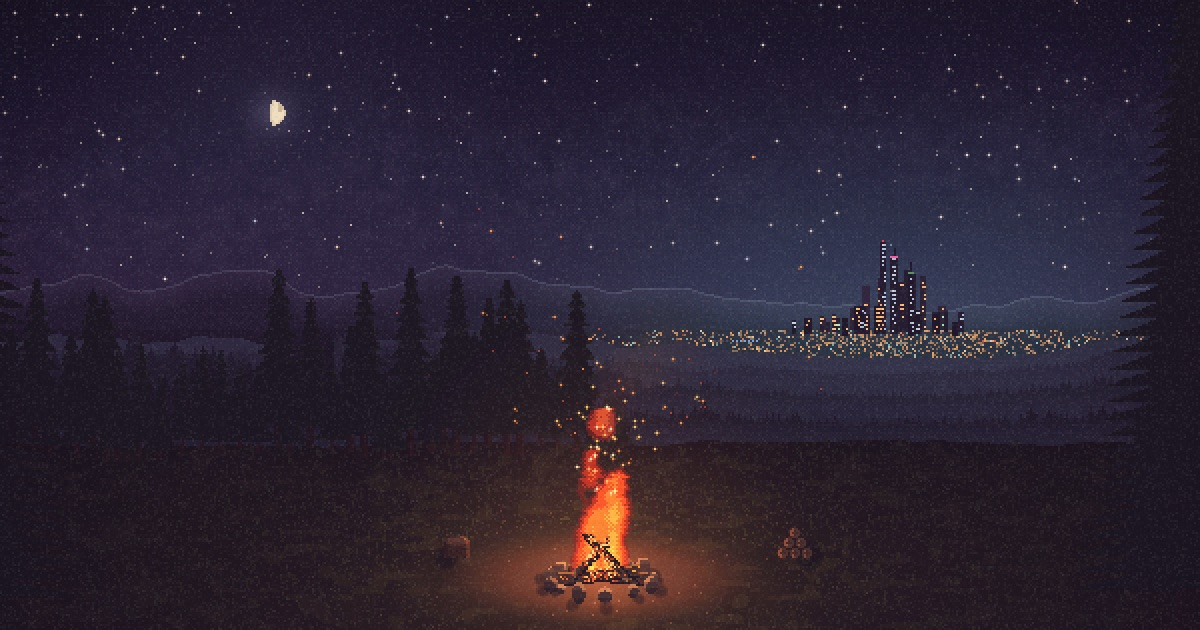
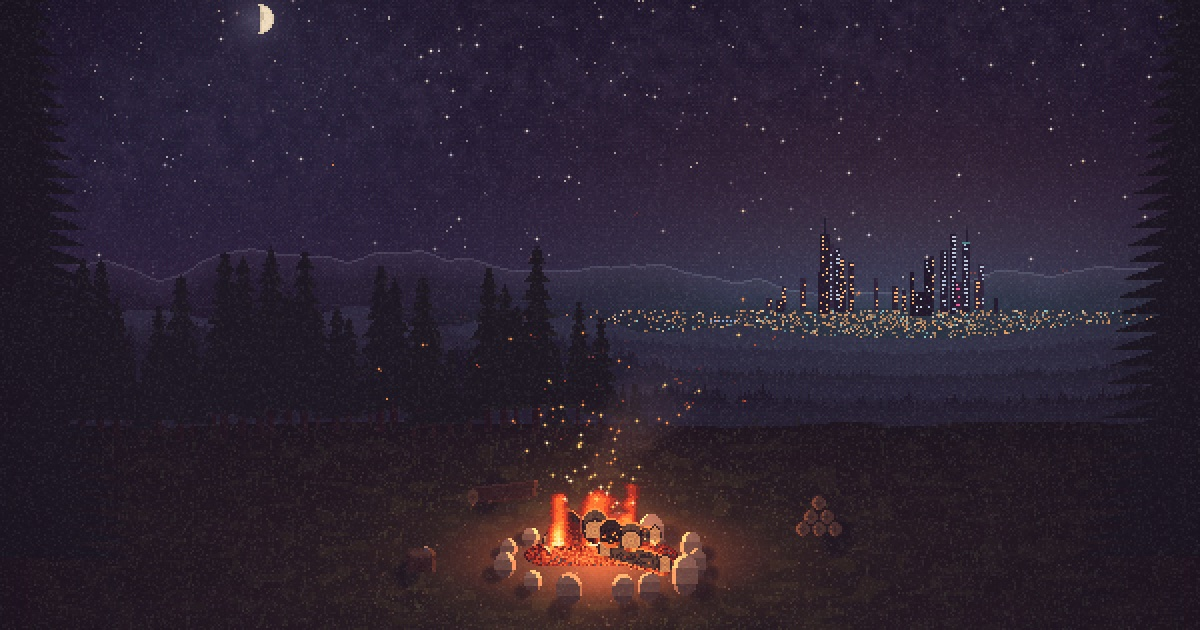
fix(bonfire): balance the flames against the wood, like a real campfire
- A wide bed of red coals now carries the fire, flecked with ash and breathing slowly
- Low stack of thick logs lying across, with short ones on top showing cut ends or charred faces
- Flames stay two or three logs tall, licking up in thin tongues from the gaps between logs
- Bigger, paler stones and a steadier firelight that never goes dark
- Each night stacks the logs differently, and a settling log shifts them

[CONTRIBUTORS]
- Fire scale `fk` now comes from the window height, separate from the flame grid in `fireAlloc(h,w)`
- New `drawEndLog()` and `endFace()`, and `WORLD.tongues` feed the heat sources in `fireStep()`
- Refreshed the scene README and `og.jpg`

diff --git a/bonfire/assets/js/main.js b/bonfire/assets/js/main.js
@@ -47,7 +47,7 @@ const WORLD={
   off:[0,1,2,3,4,5,6,7].map(()=>rr(0,3000)),
   runway:chance(.5)?1:-1,airport:rr(1.1,1.5),highway:chance(.75),
   props:[],
-  edge:[],stones:[],logs:[],cons:[],
+  edge:[],stones:[],logs:[],tongues:[],cons:[],
 };
 for(const s of[-1,1]){const n=ri(1,2);for(let i=0;i<n;i++)WORLD.edge.push({u:s<0?rr(-.06,.05):rr(.95,1.06),h:rr(.85,1.4),w:rr(.75,1)});}
 for(let i=ri(2,4);i>0;i--){
@@ -80,10 +80,18 @@ const BUILD=[];
 }
 {
   const n=ri(9,13);
-  for(let i=0;i<n;i++)WORLD.stones.push({a:i/n*Math.PI*2+rr(-.15,.15),w:rr(3,5.5),h:rr(.5,.75),tone:rr(.8,1.2)});
-  // A teepee of leaning logs over two crossed ones. Positions are in fire units (one unit is a pixel at the standard size).
-  WORLD.logs.push({x1:-15,y1:1,x2:13,y2:-2,th:5,front:true},{x1:-12,y1:-2,x2:16,y2:1,th:5,front:false});
-  for(let i=ri(3,5);i>0;i--){const s=i%2?1:-1;WORLD.logs.push({x1:s*rr(7,14),y1:rr(-1,2),x2:-s*rr(-3,5),y2:-rr(10,22),th:rr(3.5,5),front:chance(.75)});}
+  for(let i=0;i<n;i++)WORLD.stones.push({a:i/n*Math.PI*2+rr(-.15,.15),w:rr(5,9),h:rr(.55,.8),tone:rr(.85,1.25)});
+  // A low stack over the coals, like a real campfire: thick logs lying across, and short ones on top pointing at us, cut ends showing.
+  // Positions are in fire units, one unit to a pixel at the standard size.
+  WORLD.logs.push({type:'lie',x1:-rr(15,20),y1:-5+rr(-1,1),x2:rr(15,20),y2:-5+rr(-1.5,1.5),th:rr(6,7),front:false});
+  // The front log lies across one side only, so the coals show on the other.
+  const fs=chance(.5)?-1:1;
+  WORLD.logs.push({type:'lie',x1:fs*rr(17,22),y1:3+rr(-1,1),x2:-fs*rr(-4,4),y2:-rr(0,2.5),th:rr(6,7.5),front:true});
+  const ends=ri(2,4);
+  for(let i=0;i<ends;i++)WORLD.logs.push({type:'end',x:lerp(-11,11,ends>1?i/(ends-1):.5)+rr(-2.5,2.5),y:-rr(5,8.5),r:rr(3.2,4.6),charred:chance(.35),front:chance(.8)});
+  if(chance(.5))WORLD.logs.push({type:'lie',x1:-rr(8,14),y1:-rr(7,11),x2:rr(6,13),y2:-rr(3,8),th:rr(4,5.5),front:true});
+  // Flames rise in a few tongues from the gaps between the logs.
+  for(let i=ri(4,6);i>0;i--)WORLD.tongues.push({x:rr(-15,15),w:rr(1.5,3),s:rr(.55,1),ph:rr(0,100)});
 }
 
 /* ---------- layout ---------- */
@@ -102,11 +110,12 @@ function layout(){
   spread=Math.round(clamp(W*.17,28,80)*WORLD.size);
   cx=Math.round(W*(tall?.5+WORLD.side*.19:WORLD.cityX));
   ax=Math.round(cx-WORLD.side*spread*WORLD.airport);ry=hz+Math.round(pd*.4);rl=Math.round(10*vk);
-  fireAlloc(Math.round(clamp(H*.24,52,100)));
+  fk=clamp(H/220,1,2.6);
+  fireAlloc(Math.round(clamp(H*.114,26,60)),Math.round(46*fk/2)*2);
   fx=Math.round(W/2);fy=Math.round(H*(tall?.8:.85));
   gy=hz+pd+Math.round(36*vk);
-  airGlow=glowSprite(Math.round(FH*1.5),[255,140,60],.22);
-  coalGlow=glowSprite(Math.round(FW*.7),[255,110,40],.35);
+  airGlow=glowSprite(Math.round(H*.22),[255,120,50],.2);
+  coalGlow=glowSprite(Math.round(30*fk),[255,90,40],.4);
   landGlow=glowSprite(4,[255,250,230],.6);
   moonGlow=glowSprite(Math.round((WORLD.moon?WORLD.moon.r:4)*3.5),[200,210,255],.2);
   [scratch,sctx]=mk(FW*2,FH*2);
@@ -275,14 +284,14 @@ function shadow(sh,ox,oy,len,w,str){
 function groundTop(x){return gy+Math.round((fbm(x/40+WORLD.off[6])-.5)*5*vk);}
 function paintFg(){
   const gb=buf(),ob=buf(1),of=buf(1),sh=new Float32Array(W*H);
-  const ringX=FW*.55,ringY=ringX*.3;
+  const ringX=30*fk,ringY=ringX*.32,CU=34*fk;
   for(let x=0;x<W;x++)for(let y=Math.max(0,groundTop(x));y<H;y++){
     const far=clamp((y-gy)/(H-gy),0,1);
     let c=mix([20,24,20],[30,34,24],far);
     const h=hash(x,y,81);c=mix(c,[38,40,28],h*.35);
     c=mix(c,[14,16,14],vn(x,y*2.5,16,86)*.55+clamp(1-(y-gy)/(10*vk),0,1)*.5);
     if(vn(x,y*2.5,9,87)>.72)c=mix(c,[42,50,30],.5);
-    const e=Math.hypot((x-fx)/(FW*1.7),(y-fy)/(FW*.5));
+    const e=Math.hypot((x-fx)/(CU*1.7),(y-fy)/(CU*.5));
     if(e<1)c=mix(c,[46,36,28],clamp((1-e)*2.2,0,1));
     if(e<.55)c=mix(c,[42,38,36],.6);
     if(e>1.1&&hash(x,y,82)<.05)c=[46,58,34];
@@ -292,7 +301,7 @@ function paintFg(){
   // Grass tufts.
   for(let i=0,n=Math.round(W*(H-gy)/90);i<n;i++){
     const x=Math.floor(hash(i,1,84)*W),y=gy+Math.floor(hash(i,2,84)*(H-gy));
-    if(Math.hypot((x-fx)/(FW*1.8),(y-fy)/(FW*.55))<1.1)continue;
+    if(Math.hypot((x-fx)/(CU*1.8),(y-fy)/(CU*.55))<1.1)continue;
     const h=1+Math.floor(hash(i,3,84)*3*vk);
     for(let j=0;j<h;j++){put(gb,x,y-j,[40,54,32]);if(j<h-1&&hash(i,j,85)<.5)put(gb,x+(hash(i,4,84)<.5?-1:1),y-j-1,[34,46,28]);}
   }
@@ -309,7 +318,7 @@ function paintFg(){
     const x=fx+Math.cos(st.a)*ringX,y=fy+1+Math.sin(st.a)*ringY,w=st.w*fk,h=w*st.h;
     const b=Math.sin(st.a)>0?of:ob;
     curDep=y;
-    blob(b,x,y,w/2,h,(nx,ny)=>{const t=st.tone;return ny<-.35?[96*t,92*t,90*t]:ny>.4?[44*t,42*t,44*t]:[66*t,64*t,66*t];});
+    blob(b,x,y,w/2,h,(nx,ny)=>{const t=st.tone;return ny<-.35?[150*t,142*t,134*t]:ny>.4?[74*t,68*t,66*t]:[112*t,106*t,100*t];});
     shadow(sh,x,y+h*.5,w*1.2,w,.7);
   }
   // Logs, a stump and a woodpile, wherever this night's camp put them.
@@ -326,7 +335,7 @@ function paintFg(){
     shadow(sh,cx,cy+1,len*.5,Math.max(len*Math.abs(gx)*.8,th*2),.7);
   }
   WORLD.props.forEach((p,pi)=>{
-    const ringR=FW*p.d,cx=fx+Math.cos(p.a)*ringR,cy=fy+Math.sin(p.a)*ringR*.3;
+    const ringR=CU*p.d,cx=fx+Math.cos(p.a)*ringR,cy=fy+Math.sin(p.a)*ringR*.3;
     if(p.kind==='log'){
       const ga=p.a+Math.PI/2+p.tilt,len=p.len*fk,th=Math.max(4,Math.round(p.th*fk));
       groundLog(cx,cy,len,th,ga,900+pi);
@@ -353,7 +362,7 @@ function paintFg(){
 // Every lit layer is painted twice, once in the cold of the night and once with the fire at full strength.
 // Each frame draws the cold one, then the lit one on top at the fire's brightness, so the clearing flickers with the flames.
 function bake(gb,ob,sh){
-  const amb=WORLD.moon?[.22,.24,.34]:[.16,.17,.26],fire=[1.9,1.1,.5],R0=Math.max(FH*.75,W*.07);
+  const amb=WORLD.moon?[.22,.24,.34]:[.16,.17,.26],fire=[1.9,1.1,.5],R0=Math.max(H*.17,W*.07);
   const ly=fy-FH*.3;
   const[bc,bg]=mk(W,H),[lc,lg]=mk(W,H);
   const bi=bg.createImageData(W,H),li=lg.createImageData(W,H),b=bi.data,l=li.data;
@@ -379,15 +388,15 @@ function bake(gb,ob,sh){
 // A heat field: every step each cell takes the heat of the cells below it, minus a cooling map that scrolls upward with the flames.
 // The holes in the cooling map are what tear tongues of flame loose.
 let FW=0,FH=0,heat,cool,CMH=0,scroll=0,edgeCool,coolRow,fireC,fctx,fimg;
-const PAL=[null,[110,22,10,140],[168,36,12,210],[214,64,16,255],[240,104,26,255],[252,146,40,255],[255,190,70,255],[255,226,130,255],[255,248,210,255]];
-function fireAlloc(h){
-  if(h===FH)return;
-  FH=h;FW=Math.round(FH*.56/2)*2;fk=FH/60;
+const PAL=[null,[110,22,10,140],[168,36,12,210],[214,60,16,240],[240,96,24,255],[252,132,36,255],[255,168,58,255],[255,206,110,255],[255,238,180,255]];
+function fireAlloc(h,w){
+  if(h===FH&&w===FW)return;
+  FH=h;FW=w;
   heat=new Float32Array(FW*FH);
   CMH=Math.ceil(FH*4/12)*12;cool=new Float32Array(FW*CMH);
   for(let y=0;y<CMH;y++)for(let x=0;x<FW;x++){const v=vn(x,y,6,101,CMH/6)*.6+vn(x,y,3,102,CMH/3)*.3+vn(x,y,2,103,CMH/2)*.1;cool[y*FW+x]=v*v*v*3.4;}
   // Extra cooling toward the sides, stronger higher up, gives the flames their taper.
-  edgeCool=new Float32Array(FW*FH);for(let y=0;y<FH;y++)for(let x=0;x<FW;x++){const u=(x+.5-FW/2)/(FW/2);edgeCool[y*FW+x]=u*u*(.15+2.4*(1-y/FH)**2);}
+  edgeCool=new Float32Array(FW*FH);for(let y=0;y<FH;y++)for(let x=0;x<FW;x++){const u=(x+.5-FW/2)/(FW/2);edgeCool[y*FW+x]=u**4*(.4+1.6*(1-y/FH)**2);}
   // The cooling map bites less near the base, so the body of the fire stays whole and only the tips tear.
   coolRow=new Float32Array(FH);for(let y=0;y<FH;y++)coolRow[y]=.3+1.1*(1-y/FH)**1.5;
   [fireC,fctx]=mk(FW,FH);fimg=fctx.createImageData(FW,FH);
@@ -395,11 +404,12 @@ function fireAlloc(h){
 let lightRaw=1,lean=0,fireAcc=0;
 function fireStep(){
   scroll=(scroll+1)%CMH;
-  const half=FW*.34,c0=FW/2-.5;
+  const c0=FW/2-.5,tg=WORLD.tongues;
   for(let r=0;r<3;r++){const y=FH-1-r;for(let x=0;x<FW;x++){
-    const u=(x-c0)/half,b=Math.max(0,1-u*u);
-    const p=Math.pow(b,.8)*(.55+.9*noise(x*.35+t*.3+40));
-    heat[y*FW+x]=fuel*p*(.7+.5*R())*(1-r*.12);
+    const xu=(x-c0)/fk,u=xu/20,b=Math.max(0,1-u*u);
+    let p=.22*b;
+    for(const g of tg){const px=g.x+(noise(t*.05+g.ph)-.5)*5,d=(xu-px)/g.w;p+=g.s*Math.exp(-d*d)*(.5+.9*noise(t*.25+g.ph*3));}
+    heat[y*FW+x]=fuel*Math.min(1.3,p)*(.7+.5*R())*(1-r*.12);
   }}
   lean=wind*.6+(noise(t*.45+7)-.5)*.45;
   const coolK=2/FH,sgn=lean<0?-1:1,al=Math.abs(lean);
@@ -413,50 +423,83 @@ function fireStep(){
       const h=v>0?v:0;heat[row+x]=h;sum+=h;
     }
   }
-  lightRaw=sum/(FW*FH*.16);
+  // The coals give a steady glow of their own, and the flames add to it.
+  lightRaw=.45+sum/(FW*FH)*4.5;
 }
 function drawFire(){
   const d=fimg.data;
   for(let y=0;y<FH;y++)for(let x=0;x<FW;x++){
-    const i=(y*FW+x)*4;let q=Math.floor(Math.pow(heat[y*FW+x],.75)*8.6+(bayer(x,y)-.5)*.6+.1);
+    const i=(y*FW+x)*4;let q=Math.floor(Math.pow(heat[y*FW+x],1.05)*8.6+(bayer(x,y)-.5)*.6+.1);
     if(q<=0){d[i+3]=0;continue;}if(q>8)q=8;const p=PAL[q];d[i]=p[0];d[i+1]=p[1];d[i+2]=p[2];d[i+3]=p[3];
   }
   fctx.putImageData(fimg,0,0);
-  ctx.drawImage(fireC,fx-FW/2,fy-FH+2);
-  ctx.globalCompositeOperation='lighter';ctx.globalAlpha=.3;ctx.drawImage(fireC,fx-FW/2,fy-FH+2);ctx.globalCompositeOperation='source-over';ctx.globalAlpha=1;
+  ctx.drawImage(fireC,fx-FW/2,fy-FH-Math.round(3*fk));
+  ctx.globalCompositeOperation='lighter';ctx.globalAlpha=.18;ctx.drawImage(fireC,fx-FW/2,fy-FH-Math.round(3*fk));ctx.globalCompositeOperation='source-over';ctx.globalAlpha=1;
 }
 const EMB=[[40,12,8],[96,24,8],[178,52,14],[238,104,28],[255,170,60],[255,226,140]];
 const ember=v=>EMB[clamp(Math.floor(v*EMB.length),0,EMB.length-1)];
-const LOGTOP=[0,1,2,3,4,5].map(i=>mix([90,40,20],[255,150,60],i/5)),CHAR=[[14,10,9],[30,20,16]],BARK=[[44,30,22],[58,40,28]],CUT=[[118,88,58],[84,60,40]];
+const LOGTOP=[0,1,2,3,4,5].map(i=>mix([90,40,20],[255,150,60],i/5)),CHAR=[[16,10,8],[36,22,16]],BARK=[[72,46,30],[92,60,38]],CUT=[[118,88,58],[84,60,40]];
+// The bed of coals is most of the fire: a wide glow of red embers, flecked with ash, breathing slowly.
+const COAL=[[34,10,8],[86,18,8],[150,32,12],[208,56,18],[246,96,32],[255,146,60]],ASH=[[70,62,60],[96,88,84]];
+const coal=v=>COAL[clamp(Math.floor(v*COAL.length),0,COAL.length-1)];
 function drawCoals(){
-  const rx=FW*.46,ryc=Math.max(3,3.2*fk);
-  ctx.globalCompositeOperation='lighter';ctx.globalAlpha=clamp(light*.8,0,1);
-  ctx.drawImage(coalGlow,Math.round(fx-coalGlow.width/2),Math.round(fy-coalGlow.height/2));
+  const rx=24*fk,ryc=Math.max(3,5.5*fk);
+  ctx.globalCompositeOperation='lighter';ctx.globalAlpha=clamp(.5+light*.4,0,1);
+  ctx.drawImage(coalGlow,Math.round(fx-coalGlow.width/2),Math.round(fy-2-coalGlow.height/2));
   ctx.globalCompositeOperation='source-over';
-  for(let y=-Math.ceil(ryc);y<=1;y++)for(let x=-Math.ceil(rx);x<=Math.ceil(rx);x++){
+  for(let y=-Math.ceil(ryc);y<=Math.ceil(ryc*.5);y++)for(let x=-Math.ceil(rx);x<=Math.ceil(rx);x++){
     const e=(x/rx)**2+(y/ryc)**2;if(e>1)continue;
-    const v=clamp((1-e)*.7+noise(t*.35+hash(x,y,111)*60)*.55-.08+fuel*.12,0,1);
-    dot(fx+x,fy+1+y,ember(v));
+    const h=hash(x,y,112);
+    if(h<.1&&e>.3){dot(fx+x,fy-1+y,ASH[h<.04?1:0]);continue;}
+    const v=clamp((1-e)*.55+noise(t*.25+hash(x,y,111)*60)*.6-.12+fuel*.1,0,1);
+    dot(fx+x,fy-1+y,coal(v));
   }
   ctx.globalAlpha=1;
 }
+// A log lying across the pile: lit along the top, glowing red underneath where it sits in the coals, cut faces at both ends.
 function drawLog(g,id){
   const x1=fx+g.x1*fk,y1=fy+g.y1*fk,x2=fx+g.x2*fk,y2=fy+g.y2*fk;
-  const len=Math.ceil(Math.hypot(x2-x1,y2-y1)),th=Math.max(2,Math.round(g.th*fk)),steep=Math.abs(y2-y1)>Math.abs(x2-x1);
-  const litTop=LOGTOP[clamp(Math.round((light-.2)*5),0,5)];
-  // The side facing the flames is lit, the far side is a dark outline, and the outer end shows its cut face.
+  const len=Math.ceil(Math.hypot(x2-x1,y2-y1)),th=Math.max(3,Math.round(g.th*fk));
+  const litTop=LOGTOP[clamp(Math.round((light-.1)*5),0,5)],rx=24*fk;
   for(let i=0;i<=len;i++){
-    const px=Math.round(x1+(x2-x1)*i/len),py=Math.round(y1+(y2-y1)*i/len);
-    const core=Math.abs(px-fx)<6*fk&&py>fy-FH*.25,lit=steep&&px<fx?th-1:0,dark=th-1-lit;
+    const px=Math.round(x1+(x2-x1)*i/len),py=Math.round(y1+(y2-y1)*i/len),inCoals=Math.abs(px-fx)<rx*.9;
     for(let j=0;j<th;j++){
-      const X=steep?px-(th>>1)+j:px,Y=steep?py:py-(th>>1)+j;
-      let c=j===lit?litTop:j===dark?CHAR[0]:core?CHAR[1]:BARK[hash(id,i>>1,j+140)<.35?0:1];
-      if(i===0&&j!==dark)c=CUT[j===(th>>1)?1:0];
-      const h=hash(id,i,j+120);
-      if(i>0&&j!==dark&&(h<.08||(core&&h<.6))){const v=clamp(noise(t*.7+h*80+id*9)*1.1-.05+(core?.3:0),0,1);c=ember(v*.85);}
-      dot(X,Y,c);
+      const Y=py-(th>>1)+j,h=hash(id,i,j+120);
+      let c=j===0?litTop:j===th-1?CHAR[0]:BARK[hash(id,i>>1,j+140)<.35?0:1];
+      if(h<.3&&j>0&&j<th-1)c=CHAR[1];
+      if(inCoals&&j>=th-2){const v=clamp(noise(t*.3+h*80+id*9)*1.1+.1,0,1);c=coal(v);}
+      else if(h<.06&&j>0){const v=clamp(noise(t*.3+h*80+id*9)*1.2-.1,0,1);c=ember(v*.85);}
+      dot(px,Y,c);
     }
   }
+  for(const[ex,ey]of[[x1,y1],[x2,y2]])endFace(ex,ey-.5,Math.max(1.5,th*.32),th/2,id,false);
+}
+// A cut end: bark rim, pale rings of wood, a darker heart, and embers creeping in from the bottom edge.
+function endFace(cx0,cy0,rx,ryy,id,charred){
+  const shade=clamp(.55+light*.45,.5,1.15);
+  for(let y=Math.floor(-ryy);y<=Math.ceil(ryy);y++)for(let x=Math.floor(-rx);x<=Math.ceil(rx);x++){
+    const nx=x/rx,ny=y/ryy,d=Math.hypot(nx,ny);if(d>1)continue;
+    let c;
+    if(d>.8)c=CHAR[1];
+    else if(charred)c=hash(id,x+9,y+9)<.22?ember(clamp(noise(t*.35+hash(id,x,y)*70)*1.2,0,1)*.8):CHAR[hash(id,x,y+30)<.5?0:1];
+    else{const ring=Math.abs(d-.35)<.09||Math.abs(d-.62)<.08;const b=d<.15?WOOD[2]:ring?WOOD[1]:WOOD[0];c=WOODL[clamp(Math.round(shade*3.5),0,4)][WOOD.indexOf(b)];}
+    if(ny>.55&&d>.6)c=ember(clamp(noise(t*.3+id*5+x*.3)*1.1,0,1)*.9);
+    dot(cx0+x,cy0+y,c);
+  }
+}
+const WOOD=[[196,136,78],[160,104,60],[120,76,44]],WOODL=[0,1,2,3,4].map(i=>WOOD.map(c=>mix([60,30,16],mix(c,[255,160,90],.3),.35+i*.17)));
+// A short log pointing at us: its top runs back into the pile, and its round cut end faces the camera.
+function drawEndLog(g,id){
+  const cx0=fx+g.x*fk,cy0=fy+g.y*fk,r=Math.max(3,g.r*fk),back=r*.8;
+  const litTop=LOGTOP[clamp(Math.round((light-.1)*5),0,5)];
+  // The body is the round end swept back and up, so it reads as a cylinder rather than a box.
+  for(let y=Math.floor(-r-back);y<=Math.ceil(r);y++)for(let x=Math.floor(-r);x<=Math.ceil(r);x++){
+    if(Math.abs(x)>r)continue;
+    const half=Math.sqrt(Math.max(0,r*r-x*x)),top=-back-half;if(y<top||y>half)continue;
+    if(x*x+y*y<=r*r)continue;
+    dot(cx0+x,cy0+y,y<top+1.2?litTop:Math.abs(x)>r*.8?CHAR[0]:g.charred?CHAR[1]:BARK[hash(id,x,y+60)<.4?0:1]);
+  }
+  endFace(cx0,cy0,r,r,id,g.charred);
 }
 
 /* ---------- sparks, embers, ash and smoke ---------- */
@@ -469,7 +512,7 @@ function flameTop(){
 }
 function spark(kind){
   const[x,y]=kind==='pop'?[FW/2+rr(-FW*.25,FW*.25),FH-rr(3,8)*fk]:flameTop();
-  const s={kind,id:sid++,x:fx-FW/2+x,y:fy-FH+2+y,px:0,py:0,vx:rr(-4,4)*fk,vy:-rr(7,20)*fk,temp:rr(.8,1),cool:rr(.07,.24),turb:rr(5,18)*fk,buoy:rr(4,11)*fk,ground:0};
+  const s={kind,id:sid++,x:fx-FW/2+x,y:fy-FH-3*fk+y,px:0,py:0,vx:rr(-4,4)*fk,vy:-rr(7,20)*fk,temp:rr(.8,1),cool:rr(.07,.24),turb:rr(5,18)*fk,buoy:rr(4,11)*fk,ground:0};
   if(kind==='high'){s.cool*=.45;s.buoy*=1.3;}
   if(kind==='pop'){s.vx=rr(-22,22)*fk;s.vy=-rr(18,40)*fk;s.cool=rr(.05,.12);s.ground=fy+rr(-4,16)*fk;}
   if(kind==='ash'){s.vy=-rr(3,7)*fk;s.vx=0;s.temp=rr(.4,.8);s.cool=rr(.08,.15);s.y-=rr(4,14)*fk;}
@@ -478,7 +521,7 @@ function spark(kind){
 }
 function burst(n,pops){for(let i=0;i<n;i++)spark(chance(.25)?'high':'spark');for(let i=0;i<pops;i++)spark('pop');}
 function updateSparks(dt){
-  sparkAcc+=dt*(10+16*fuel)*(.6+.5*light);
+  sparkAcc+=dt*(6+10*fuel)*(.6+.5*light);
   while(sparkAcc>1){sparkAcc--;spark(chance(.22)?'high':'spark');}
   ashAcc+=dt*.6*fuel;while(ashAcc>1){ashAcc--;spark('ash');}
   for(let i=sparks.length-1;i>=0;i--){
@@ -613,8 +656,11 @@ function fire(k){
   switch(k){
     case'crackle':{const n=ri(6,26);burst(n,ri(1,n>14?7:3));if(n>18&&!warming)log('The fire cracks and throws a shower of sparks');break;}
     case'settle':{
-      flare=Math.min(.6,flare+rr(.2,.4));burst(ri(30,70),ri(3,8));
-      const g=pick(WORLD.logs.slice(2));g.y2=clamp(g.y2+rr(-3,5),-22,-8);g.x2=clamp(g.x2+rr(-3,3),-6,6);g.front=chance(.75);
+      flare=Math.min(.5,flare+rr(.15,.3));burst(ri(20,45),ri(3,7));
+      const g=pick(WORLD.logs);
+      if(g.type==='end'){g.y=clamp(g.y+rr(-.5,2),-10,-4);g.x=clamp(g.x+rr(-2,2),-14,14);g.charred=g.charred||chance(.3);}
+      else{g.y1=clamp(g.y1+rr(-1,1.5),-12,3);g.y2=clamp(g.y2+rr(-1,1.5),-12,3);}
+      const tg=pick(WORLD.tongues);tg.x=clamp(tg.x+rr(-5,5),-15,15);
       log('A log settles into the coals and the fire flares');break;
     }
     case'gust':{const d=chance(.5)?1:-1;gust={age:0,dur:rr(7,14),amp:d*rr(.4,.9)};log(`A gust leans the flames to the ${d>0?'right':'left'}`);break;}
@@ -714,9 +760,9 @@ function draw(){
   ctx.globalCompositeOperation='source-over';ctx.globalAlpha=1;
   shimmer();
   drawCoals();
-  WORLD.logs.forEach((g,i)=>{if(!g.front)drawLog(g,i);});
+  WORLD.logs.forEach((g,i)=>{if(!g.front)(g.type==='end'?drawEndLog:drawLog)(g,i);});
   drawFire();
-  WORLD.logs.forEach((g,i)=>{if(g.front)drawLog(g,i);});
+  WORLD.logs.forEach((g,i)=>{if(g.front)(g.type==='end'?drawEndLog:drawLog)(g,i);});
   drawSmoke();
   for(const s of sparks)if(s.landed)drawSpark1(s);
   ctx.drawImage(fgF,0,0);ctx.globalAlpha=la;ctx.drawImage(fgFL,0,0);ctx.globalAlpha=1;

diff --git a/bonfire/README.md b/bonfire/README.md
@@ -44,9 +44,11 @@ The clearing is painted twice: once in the cold of the night, and once lit by th
 
 ### The fire
 
-The flames are a heat field about a quarter of the window tall, rising from a teepee of logs over a bed of glowing coals. Each step, the logs feed heat into the bottom rows, with hot spots that drift along the pile, and every cell above takes the average heat of the cells below it, minus a cooling map. The cooling map is smooth noise that scrolls upward with the heat, so its holes tear tongues of flame loose and send them up as they fade. Extra cooling toward the sides, stronger higher up, gives the fire its taper. The field steps about 26 times a second, slower than the frame rate, so the fire burns lazily. The wind, slow sway and small random jitters shift each row a pixel sideways, so the flames lean and dance. The heat maps onto a palette from dark red to pale yellow with a little dithering at the edges, and a second, brighter pass makes the core glow.
+The fire is built like a real campfire, where the wood and the coals do most of the work and the flames stay modest. A wide bed of red coals, flecked with ash, glows and breathes slowly under a low stack of logs: thick ones lying across, one in front covering only one side so the coals show, and two to four short ones on top pointing at us, their cut ends showing rings of pale wood or charred black with embers in the cracks. Where the logs sit in the coals their undersides glow red. Each night stacks them differently, and a settling log shifts them.
 
-The total heat sets the brightness of the firelight on the clearing, the glow in the air and the coals, so a flare lights everything up. How much fuel the fire has drifts slowly on smooth noise over minutes.
+The flames are a short heat field, about two or three logs tall. Each step, a few tongues of heat rise from the gaps between the logs, each drifting slowly along the pile, and every cell above takes the average heat of the cells below it, minus a cooling map. The cooling map is smooth noise that scrolls upward with the heat, so its holes tear tongues of flame loose and send them up as they fade. Extra cooling at the ends of the pile keeps the flames over the wood. The field steps about 26 times a second, slower than the frame rate, so the fire burns lazily. The wind, slow sway and small random jitters shift each row a pixel sideways, so the flames lean and dance. The heat maps onto a palette that is mostly orange and red, with pale yellow only at the hottest roots, and a little dithering at the edges.
+
+The coals give a steady glow of their own, and the flames add to it, so the firelight on the clearing flickers without ever going dark, and a flare lights everything up. How much fuel the fire has drifts slowly on smooth noise over minutes.
 
 ### Sparks, embers and smoke
 
